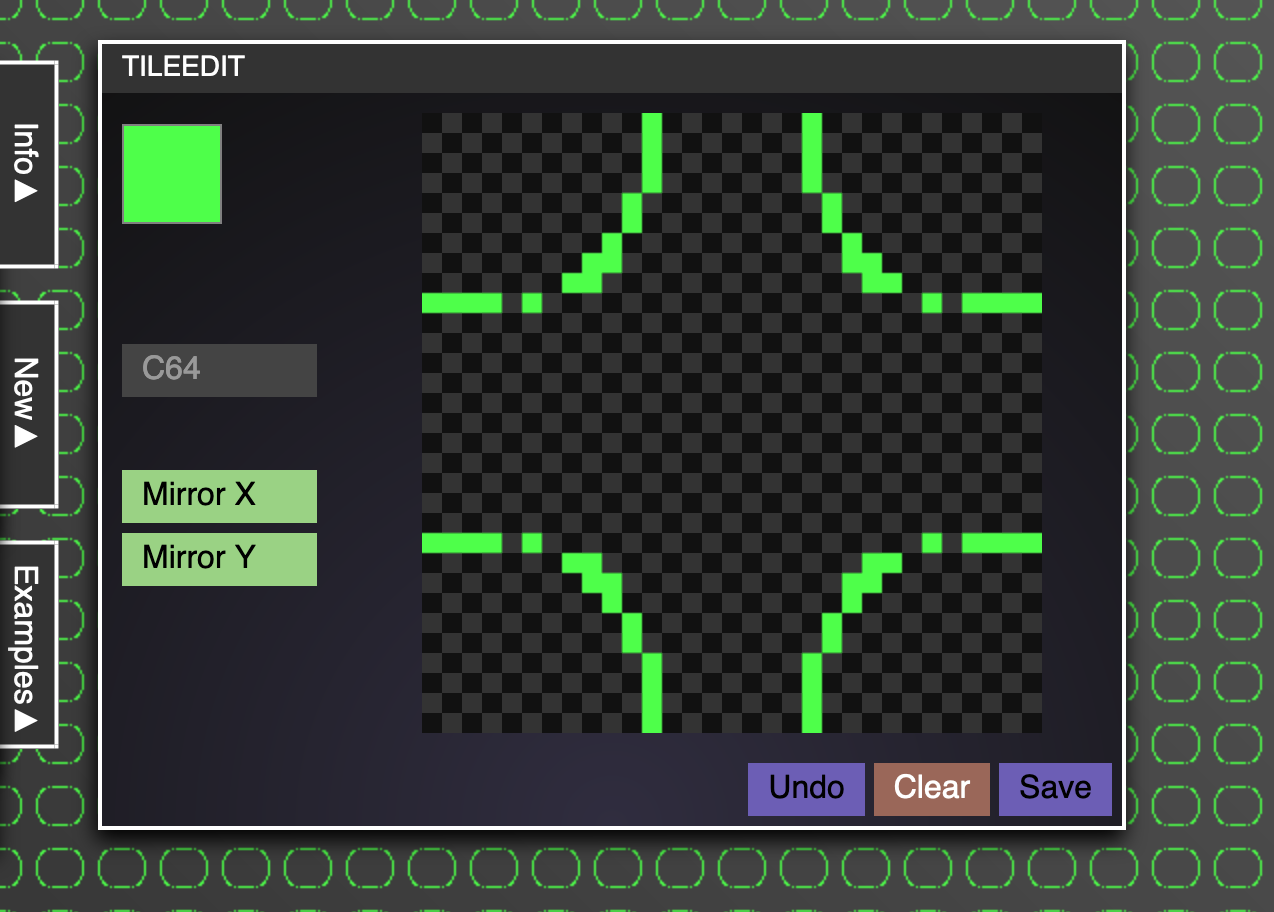
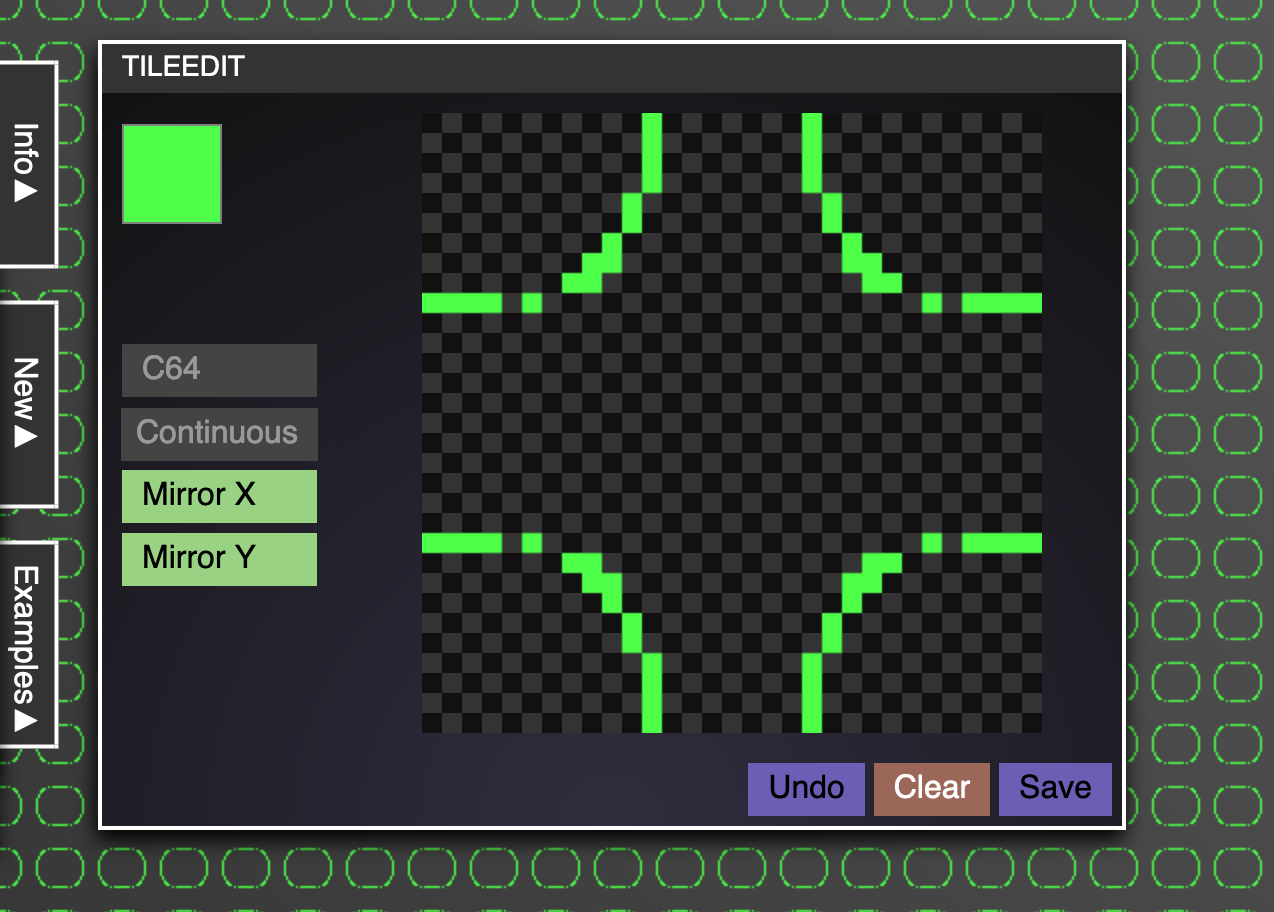
added continuous docs

Changed region(s): [[0.0918, 0.4298, 0.2755, 0.5219]]

diff --git a/README.md b/README.md
@@ -53,6 +53,10 @@ If you don't want to be limited, you can also turn off the C64 Mode and you get 
 
 ![TileEdit Non C64 Mode](./screenshots/non-c64-colour-picker.png)
 
+## Continuous mode 
+
+If you enable continuous mode, you can paint by moving the mouse without having to press down the mouse button. You can also enable/disable continuous mode by double-clicking the canvas.
+
 ## Mirroring for easier seamless tiles
 
 You can turn on horizontal or vertical mirroring to make it easier to pixel seamless tiles.
